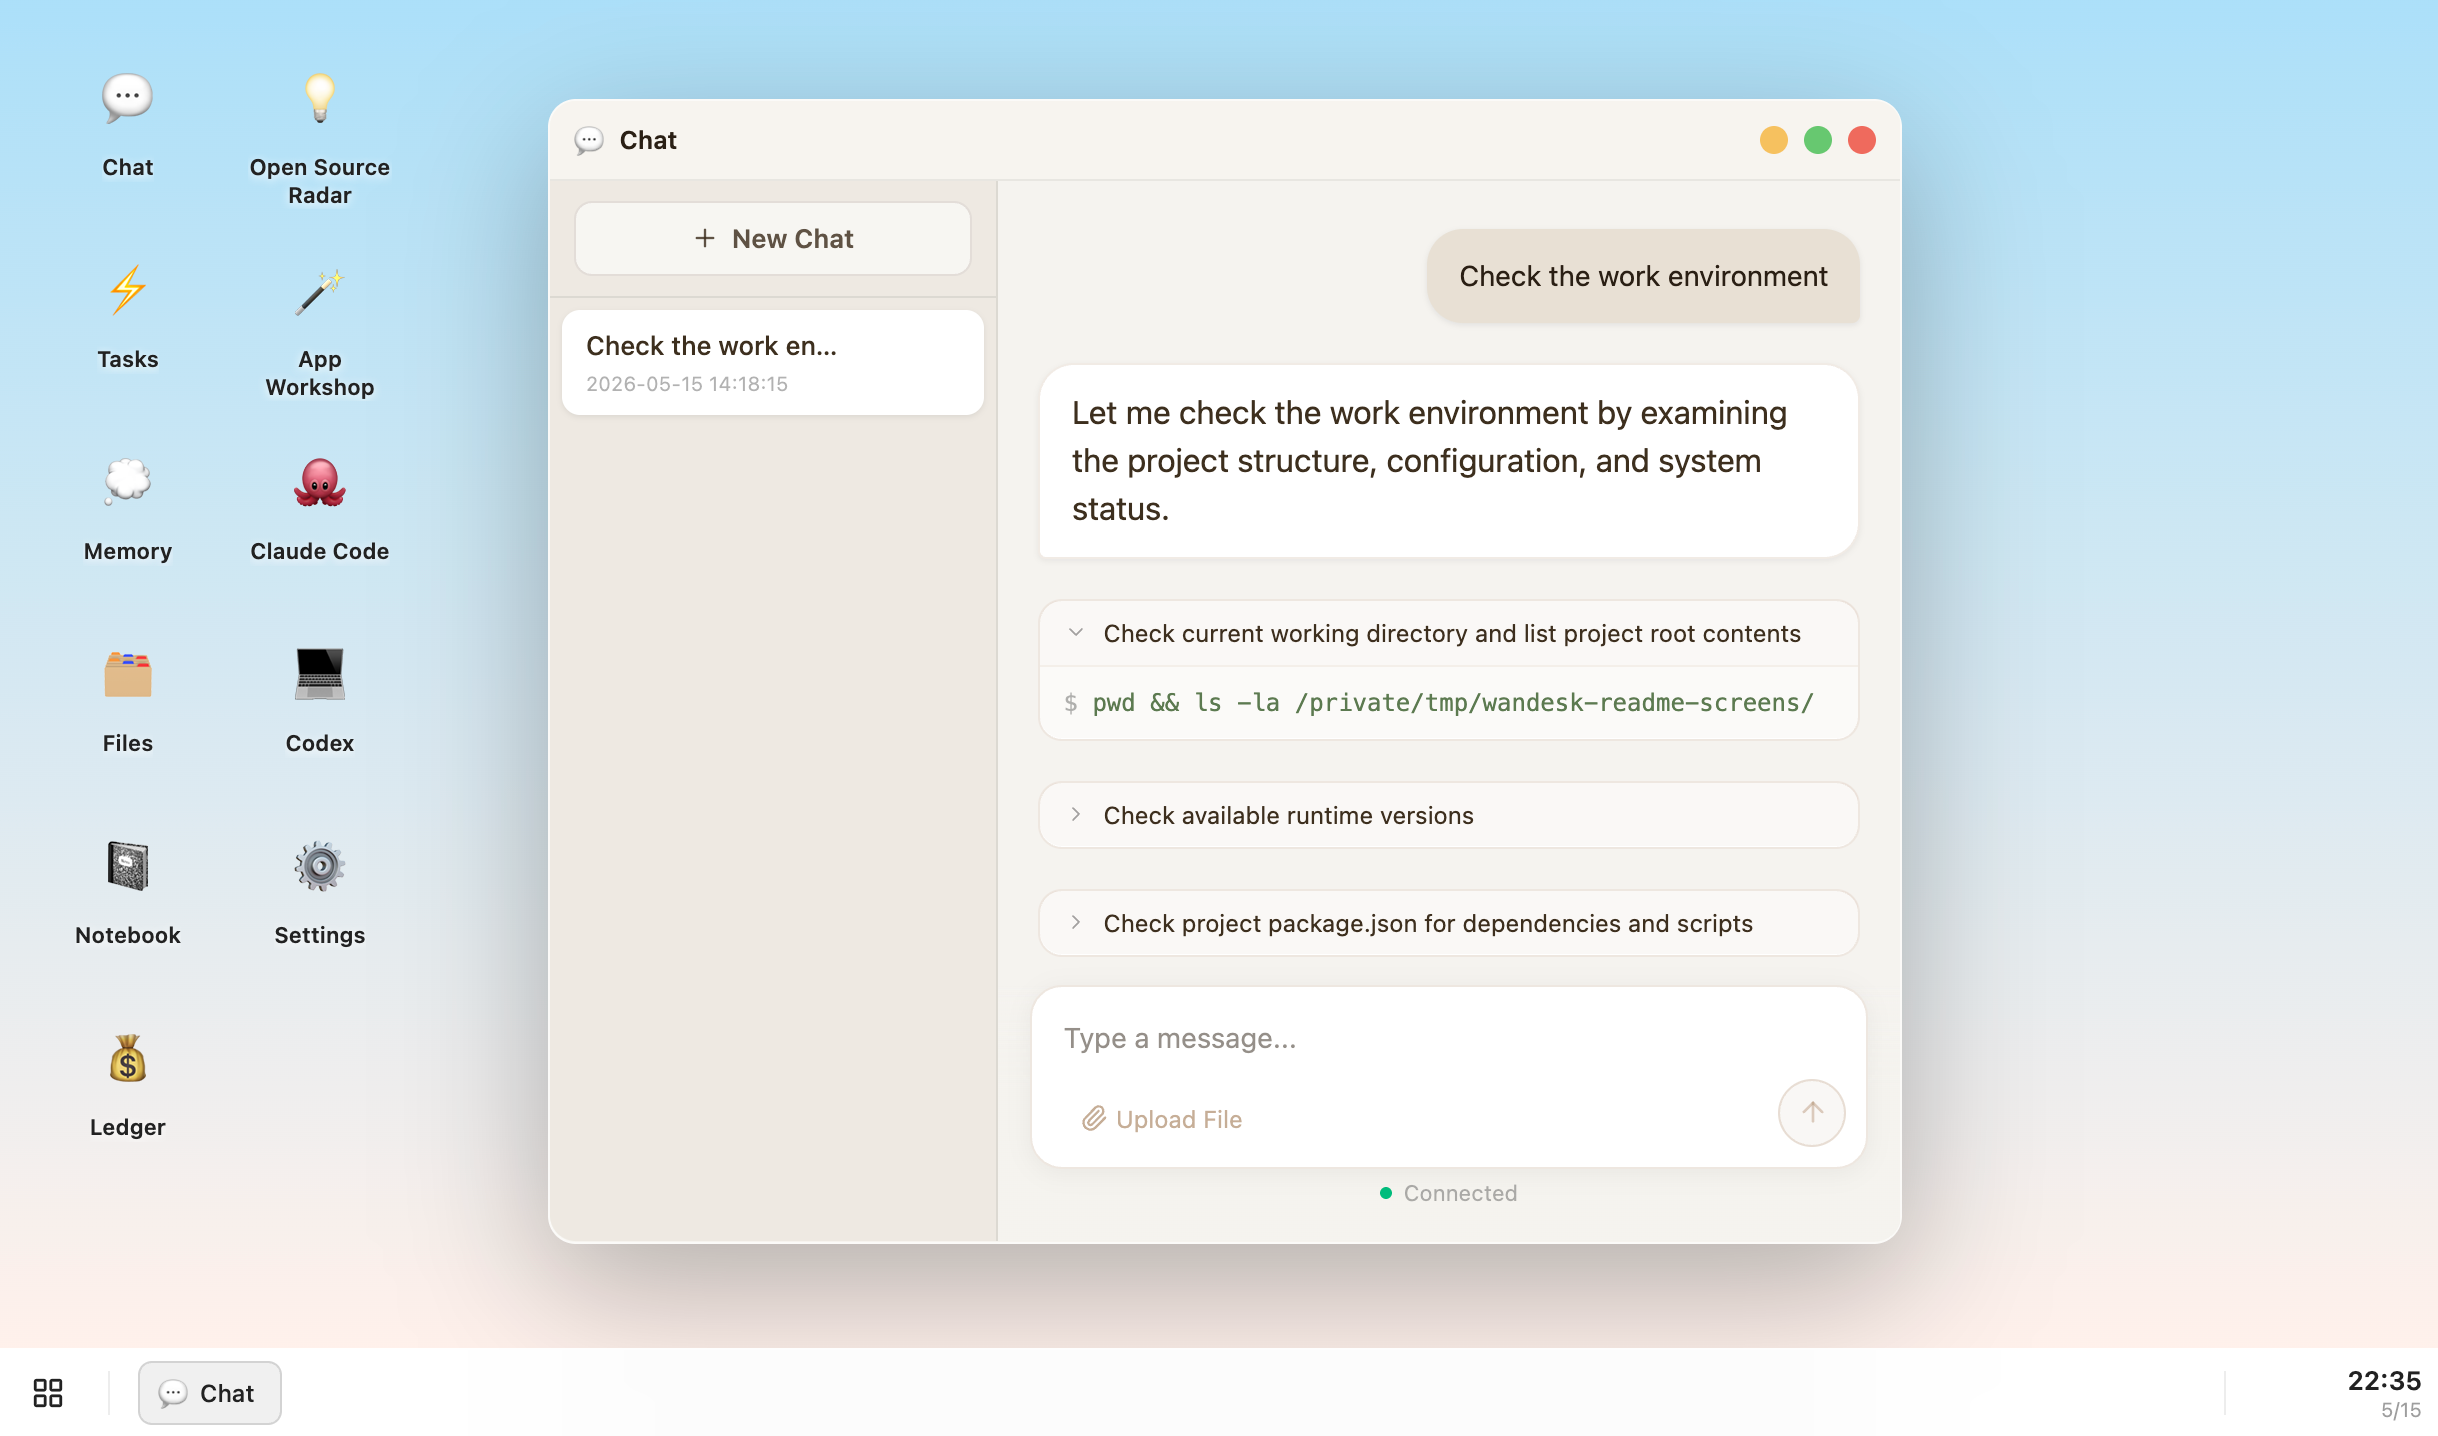
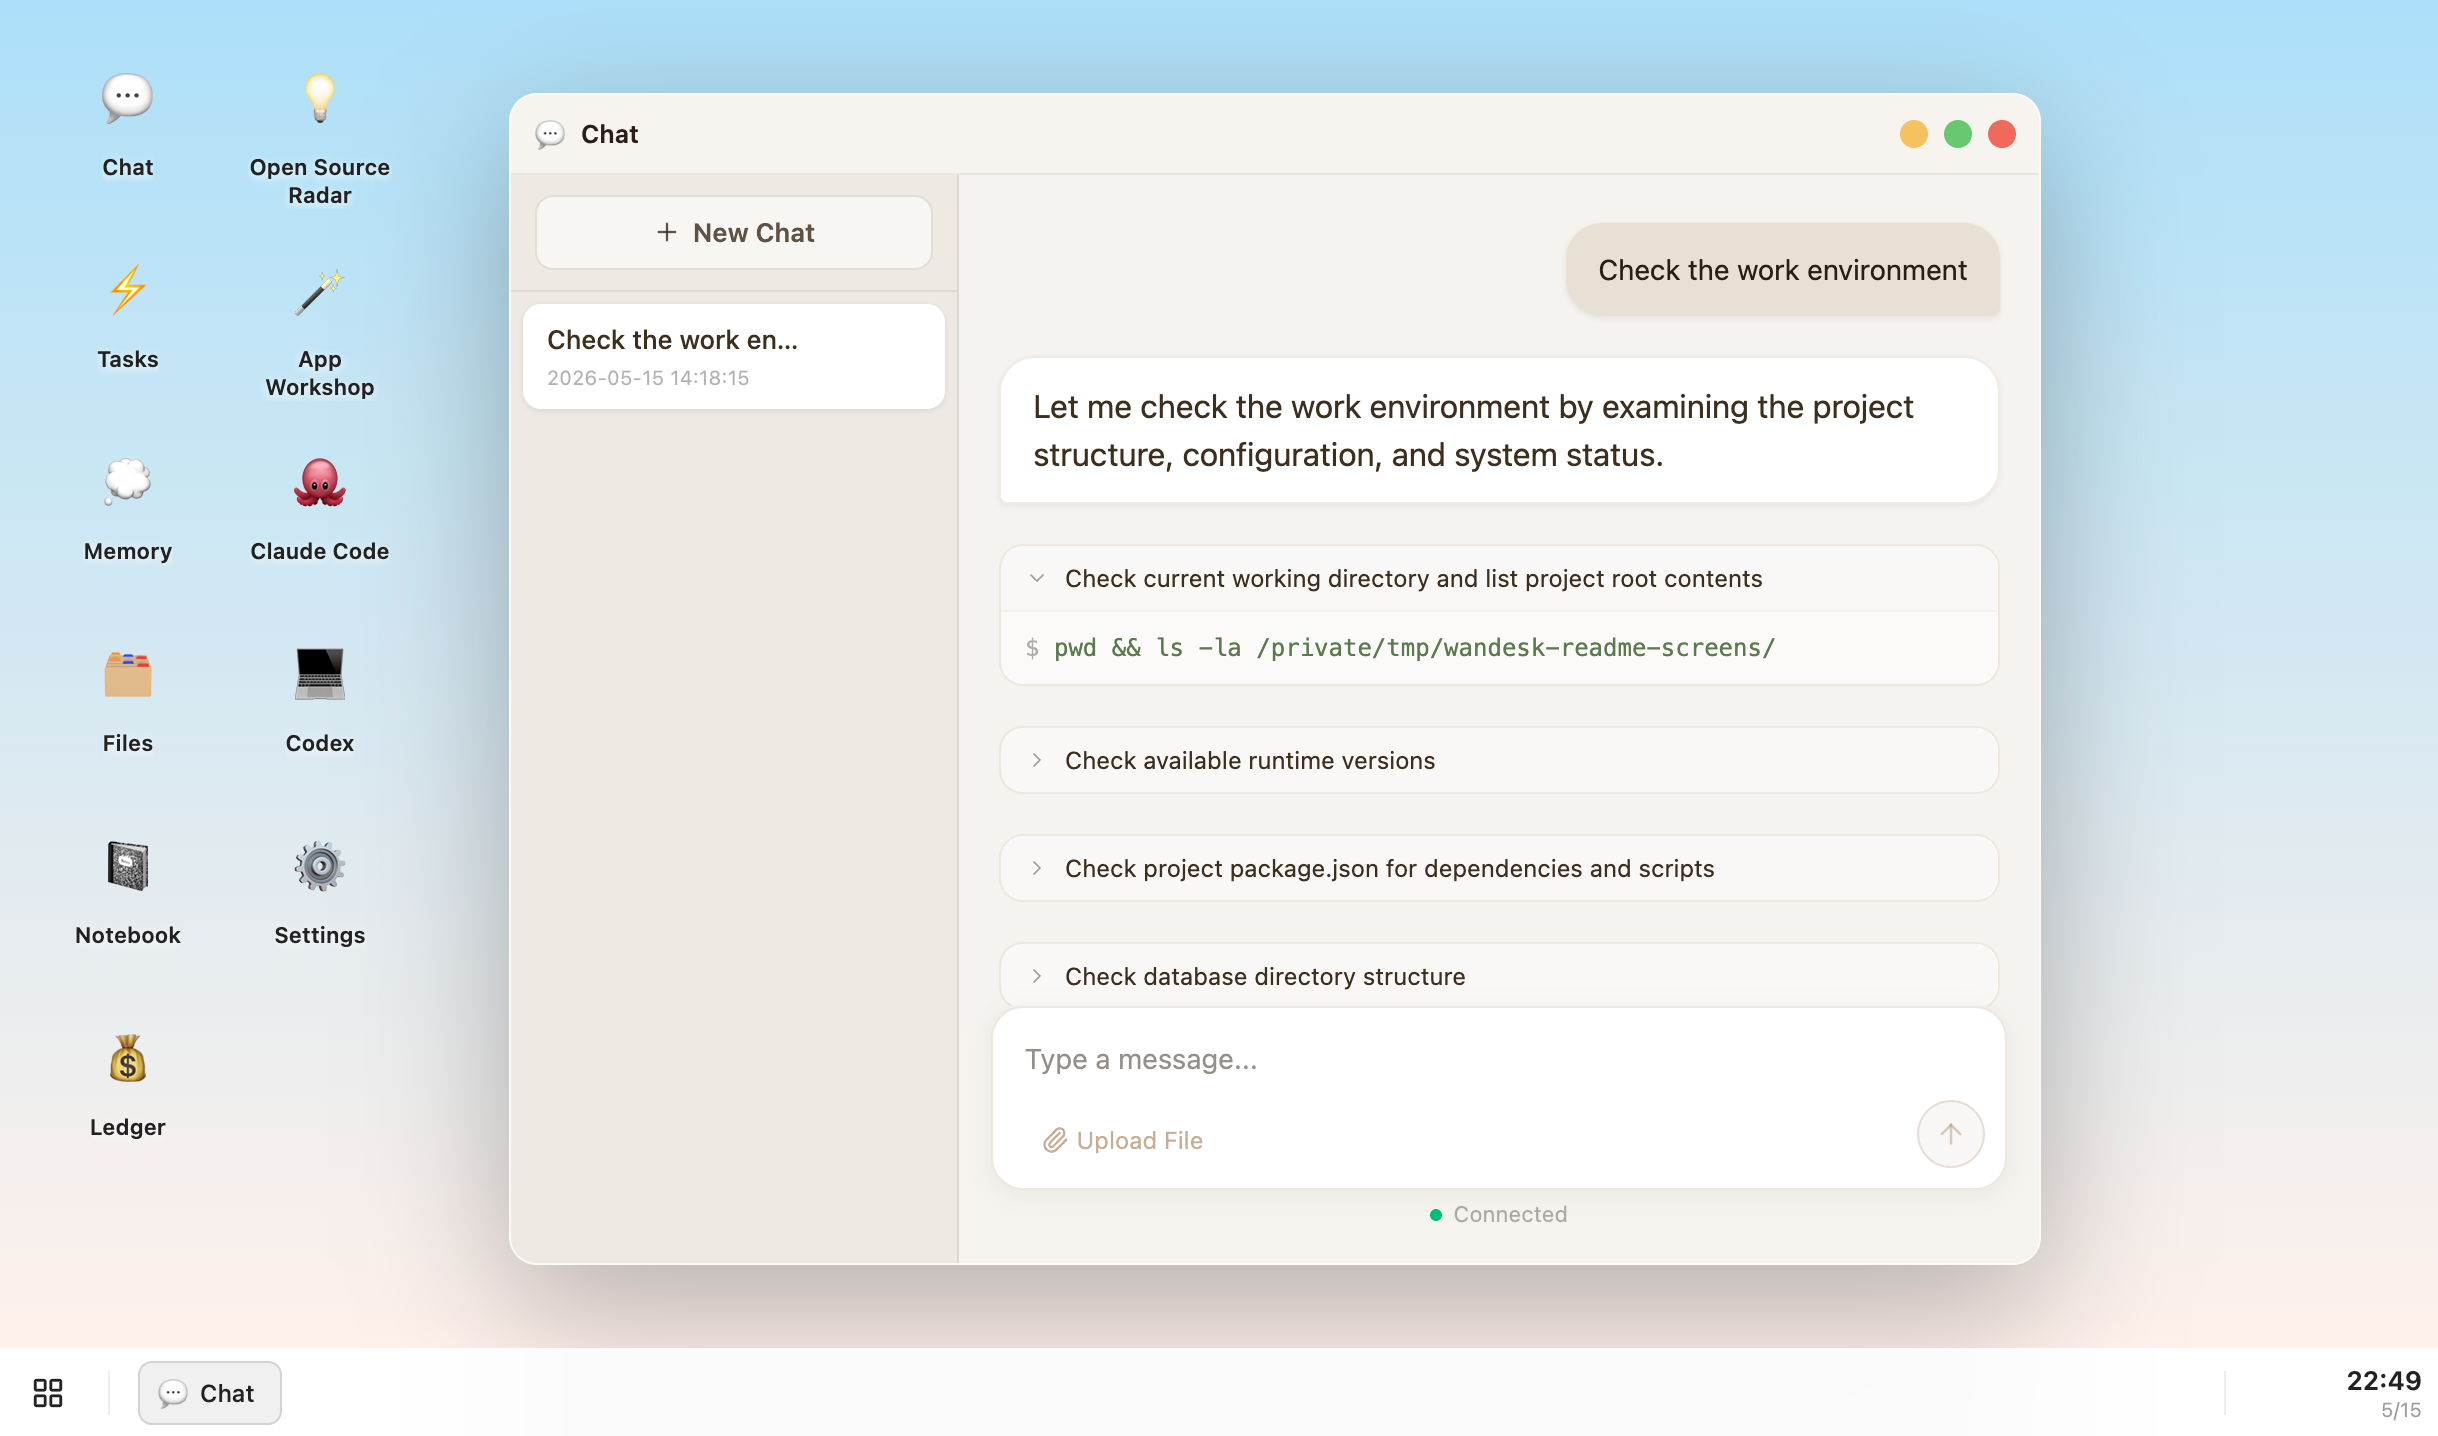
Add app workshop screenshot

diff --git a/README.md b/README.md
@@ -14,6 +14,12 @@ It is built around a simple idea: AI should not only live in chat. People still 
 
 Chat is the intent layer of the desktop. It can use local context, inspect the workspace, call tools, and coordinate work with the rest of the system.
 
+### App Workshop
+
+![Wandesk App Workshop](docs/images/wandesk-app-workshop.png)
+
+App Workshop turns an app idea into a concrete build request. Pick a template, describe the workflow, and let AI start creating the local app.
+
 ### Notebook
 
 ![Wandesk Notebook](docs/images/wandesk-notebook.png)

diff --git a/README.zh-CN.md b/README.zh-CN.md
@@ -14,6 +14,12 @@
 
 Chat 是桌面里的意图入口。它可以读取本地上下文、检查工作区、调用工具，并和系统里的其他能力协同。
 
+### App Workshop
+
+![Wandesk App Workshop](docs/images/wandesk-app-workshop.png)
+
+App Workshop 可以把一个应用想法变成具体的构建请求。选择模板、描述工作流，然后让 AI 开始创建本地应用。
+
 ### Notebook
 
 ![Wandesk Notebook](docs/images/wandesk-notebook.png)